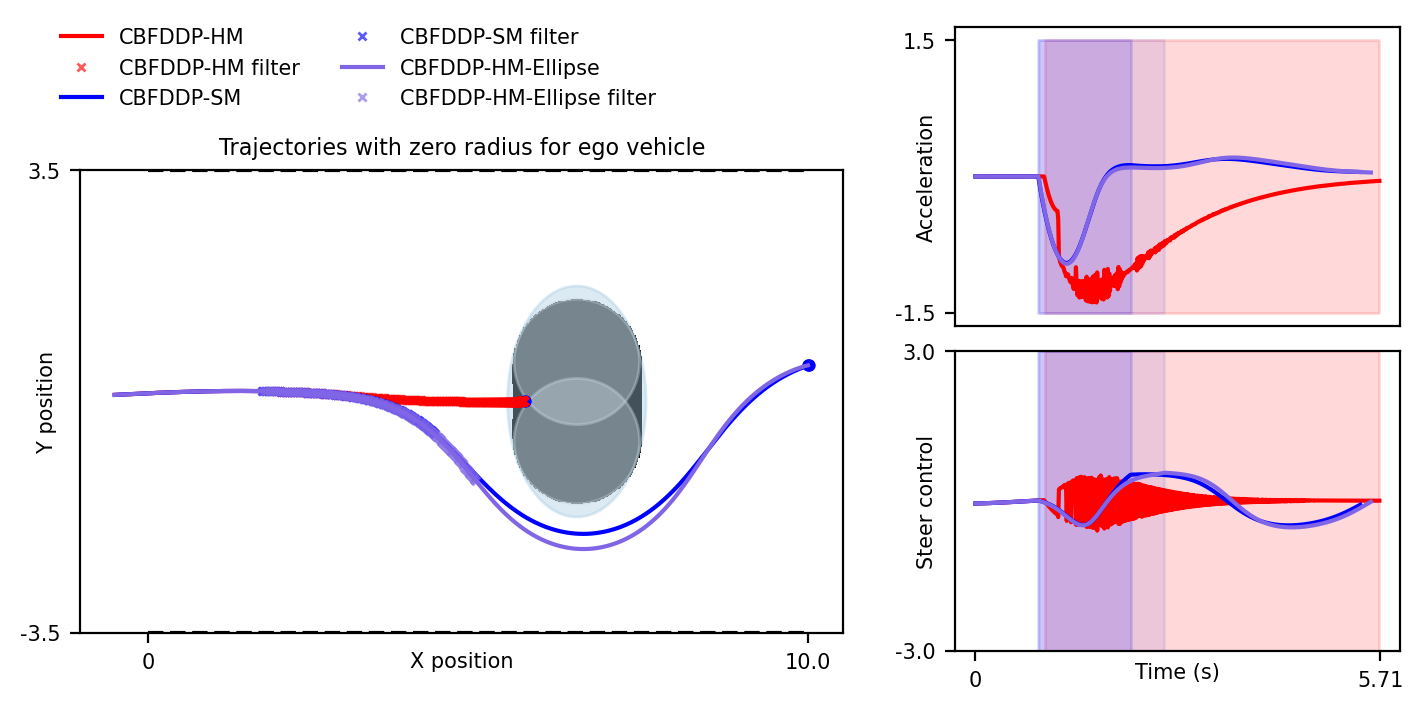
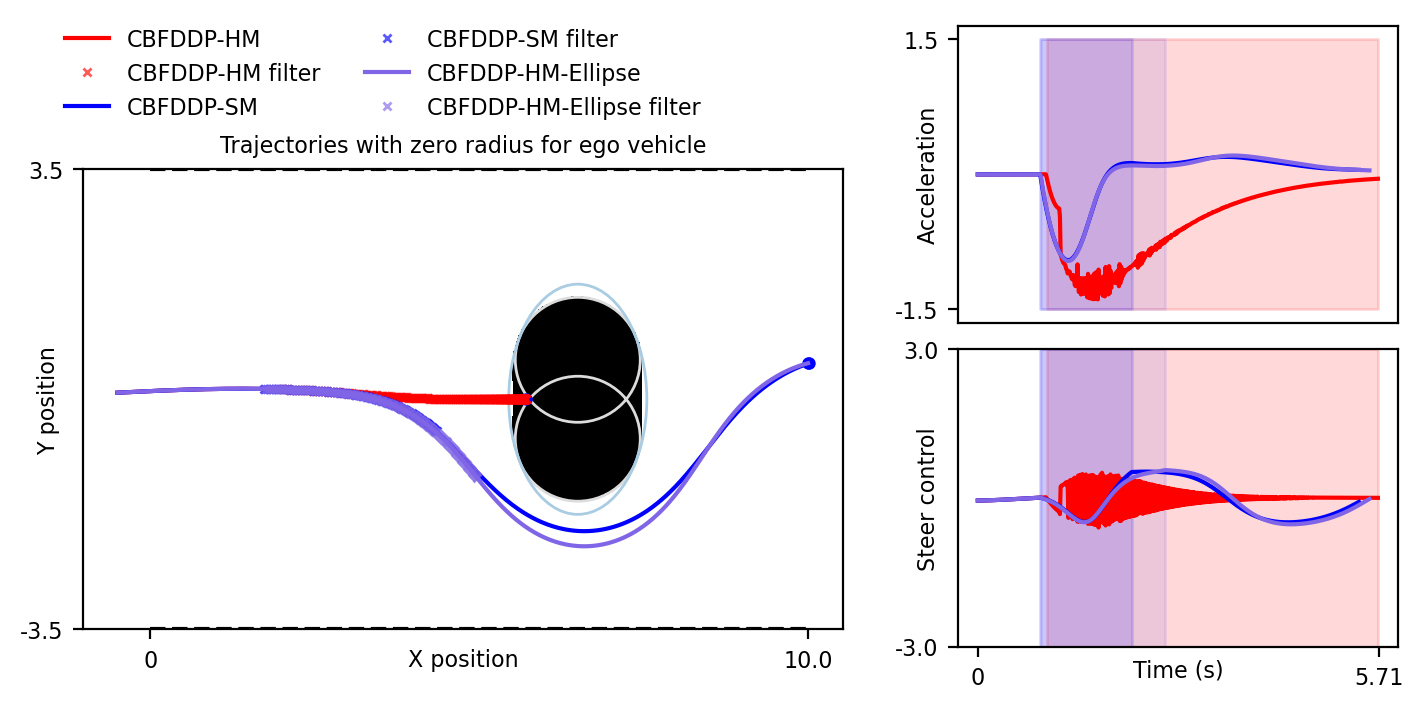
plotting updates

diff --git a/simulators/car/car_single.py b/simulators/car/car_single.py
@@ -360,18 +360,18 @@ class CarSingle5DEnv(BaseSingleEnv):
                 dimensions = vertices[2:4]
                 obs_rect = plt.Rectangle(
                     [vertices[0] - vertices[3], vertices[1] - vertices[4]], 2*vertices[3], 
-                        2*vertices[4], angle = np.rad2deg(vertices[2]), rotation_point='center', alpha=0.4, color=c)
+                        2*vertices[4], angle = np.rad2deg(vertices[2]), rotation_point='center', alpha=1.0, facecolor=None, edgecolor=c, fill=False)
                 ax.add_patch(obs_rect)
         elif self.cost.constraint.obsc_type == 'circle':
             for vertices in self.obs_vertices_list:
                 obs_circle = plt.Circle(
-                    [vertices[0], vertices[1]], vertices[2], alpha=0.4, color=c)
+                    [vertices[0], vertices[1]], vertices[2], alpha=1.0, facecolor=None, edgecolor=c, fill=False)
                 ax.add_patch(obs_circle)
         elif self.cost.constraint.obsc_type == 'ellipse':
             for vertices in self.obs_vertices_list:
                 obs_ellipse = Ellipse(
                     [vertices[0], vertices[1]], 2*vertices[3], 2*vertices[4], 
-                        angle = np.rad2deg(vertices[2]), alpha=0.4, color=c)
+                        angle = np.rad2deg(vertices[2]), alpha=1.0, facecolor=None, edgecolor=c, fill=False)
                 ax.add_patch(obs_ellipse)
 
     def render_state_cost_map(
@@ -405,8 +405,17 @@ class CarSingle5DEnv(BaseSingleEnv):
         v = cost.get_mapped_margin(state, ctrl).reshape(nx, ny)
         v = jnp.where(v>0, 0.0, v)
         v = jnp.where(v<0, -10.0, v)
+        v_np = np.array(v)
+        # for xindex in np.arange(1, v.shape[0] - 1):
+        #     for yindex in np.arange(1, v.shape[1] - 1):
+        #         if (v[xindex, yindex] == -10.0 and 
+        #                (v[xindex - 1, yindex - 1] == -10.0 and  
+        #                 v[xindex + 1, yindex - 1] == -10.0 and
+        #                 v[xindex - 1, yindex + 1] == -10.0 and
+        #                 v[xindex + 1, yindex + 1] == -10.0)):
+        #             v_np[xindex, yindex] = 0.0
         ax.imshow(
-            v.T, interpolation='none', extent=[xmin, xmax, ymin, ymax], cmap='gray', label='SoftMargin (with ego radius)'
+            v_np.T, interpolation='none', extent=[xmin, xmax, ymin, ymax], cmap='gray', label='SoftMargin (with ego radius)'
         )
 
     def _reshape(

diff --git a/plot_nonconvex_comparison.py b/plot_nonconvex_comparison.py
@@ -24,7 +24,7 @@ fig = plt.figure(layout='constrained', figsize=(7.0, 3.4))
 colorlist = [(1, 0, 0, 1), (0, 0, 1, 1), (0.5, 0.4, 0.9, 1.0)]
 labellist = ['CBFDDP-HM', 'CBFDDP-SM', 'CBFDDP-HM-Ellipse']
 stylelist = ['solid', 'solid', 'solid']
-legend_fontsize = 7.5
+legend_fontsize = 8.0
 
 # Load the config to get key parameters needed for plot generation.
 config = load_config(config_file)
